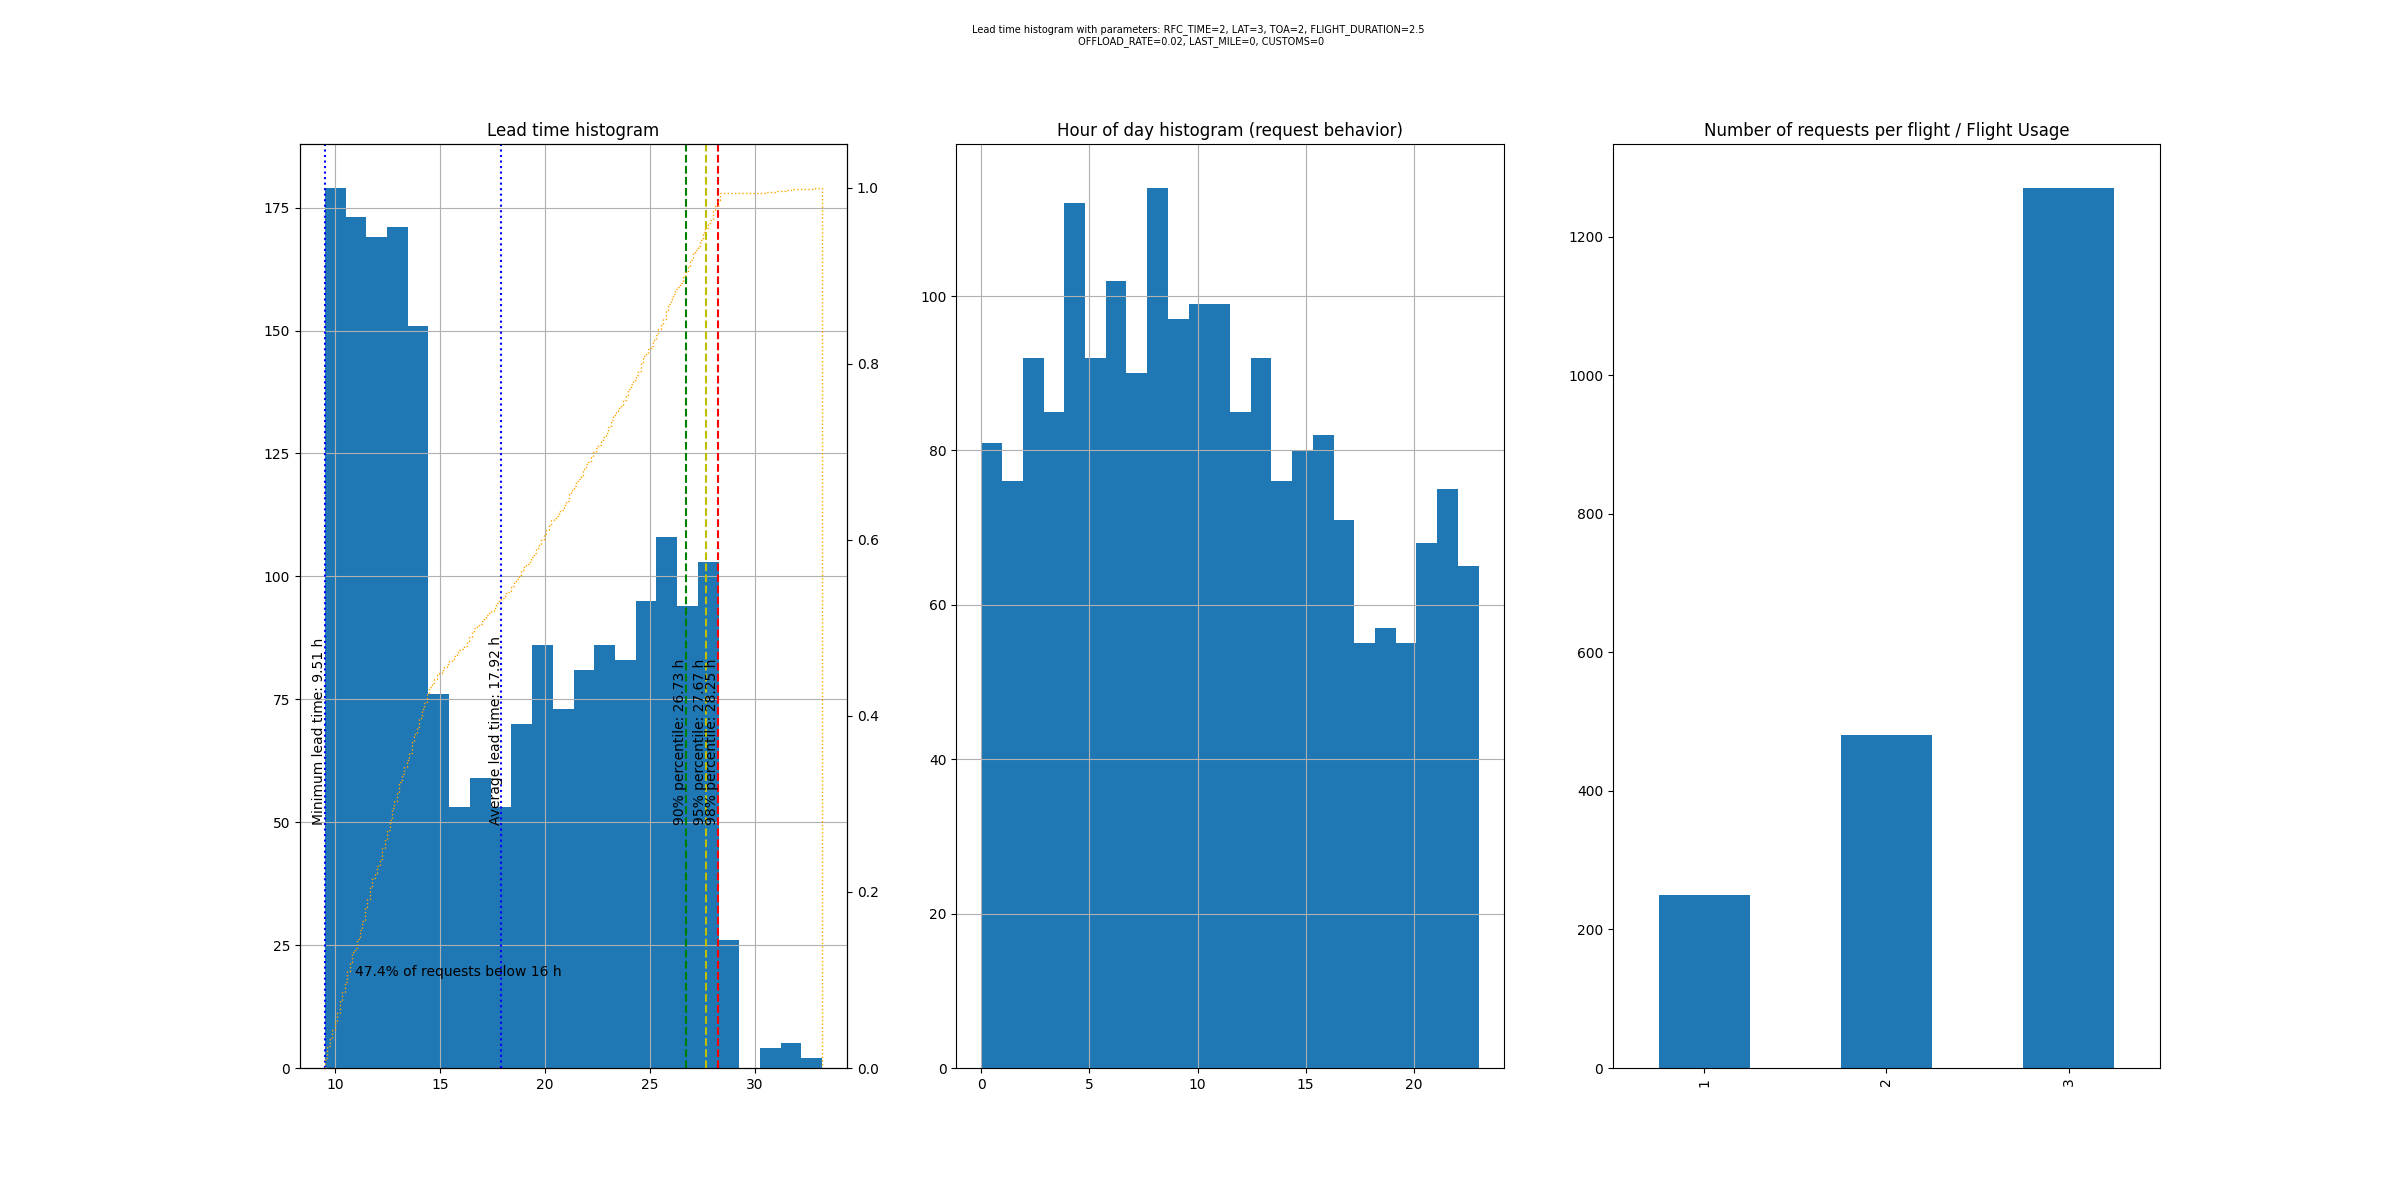
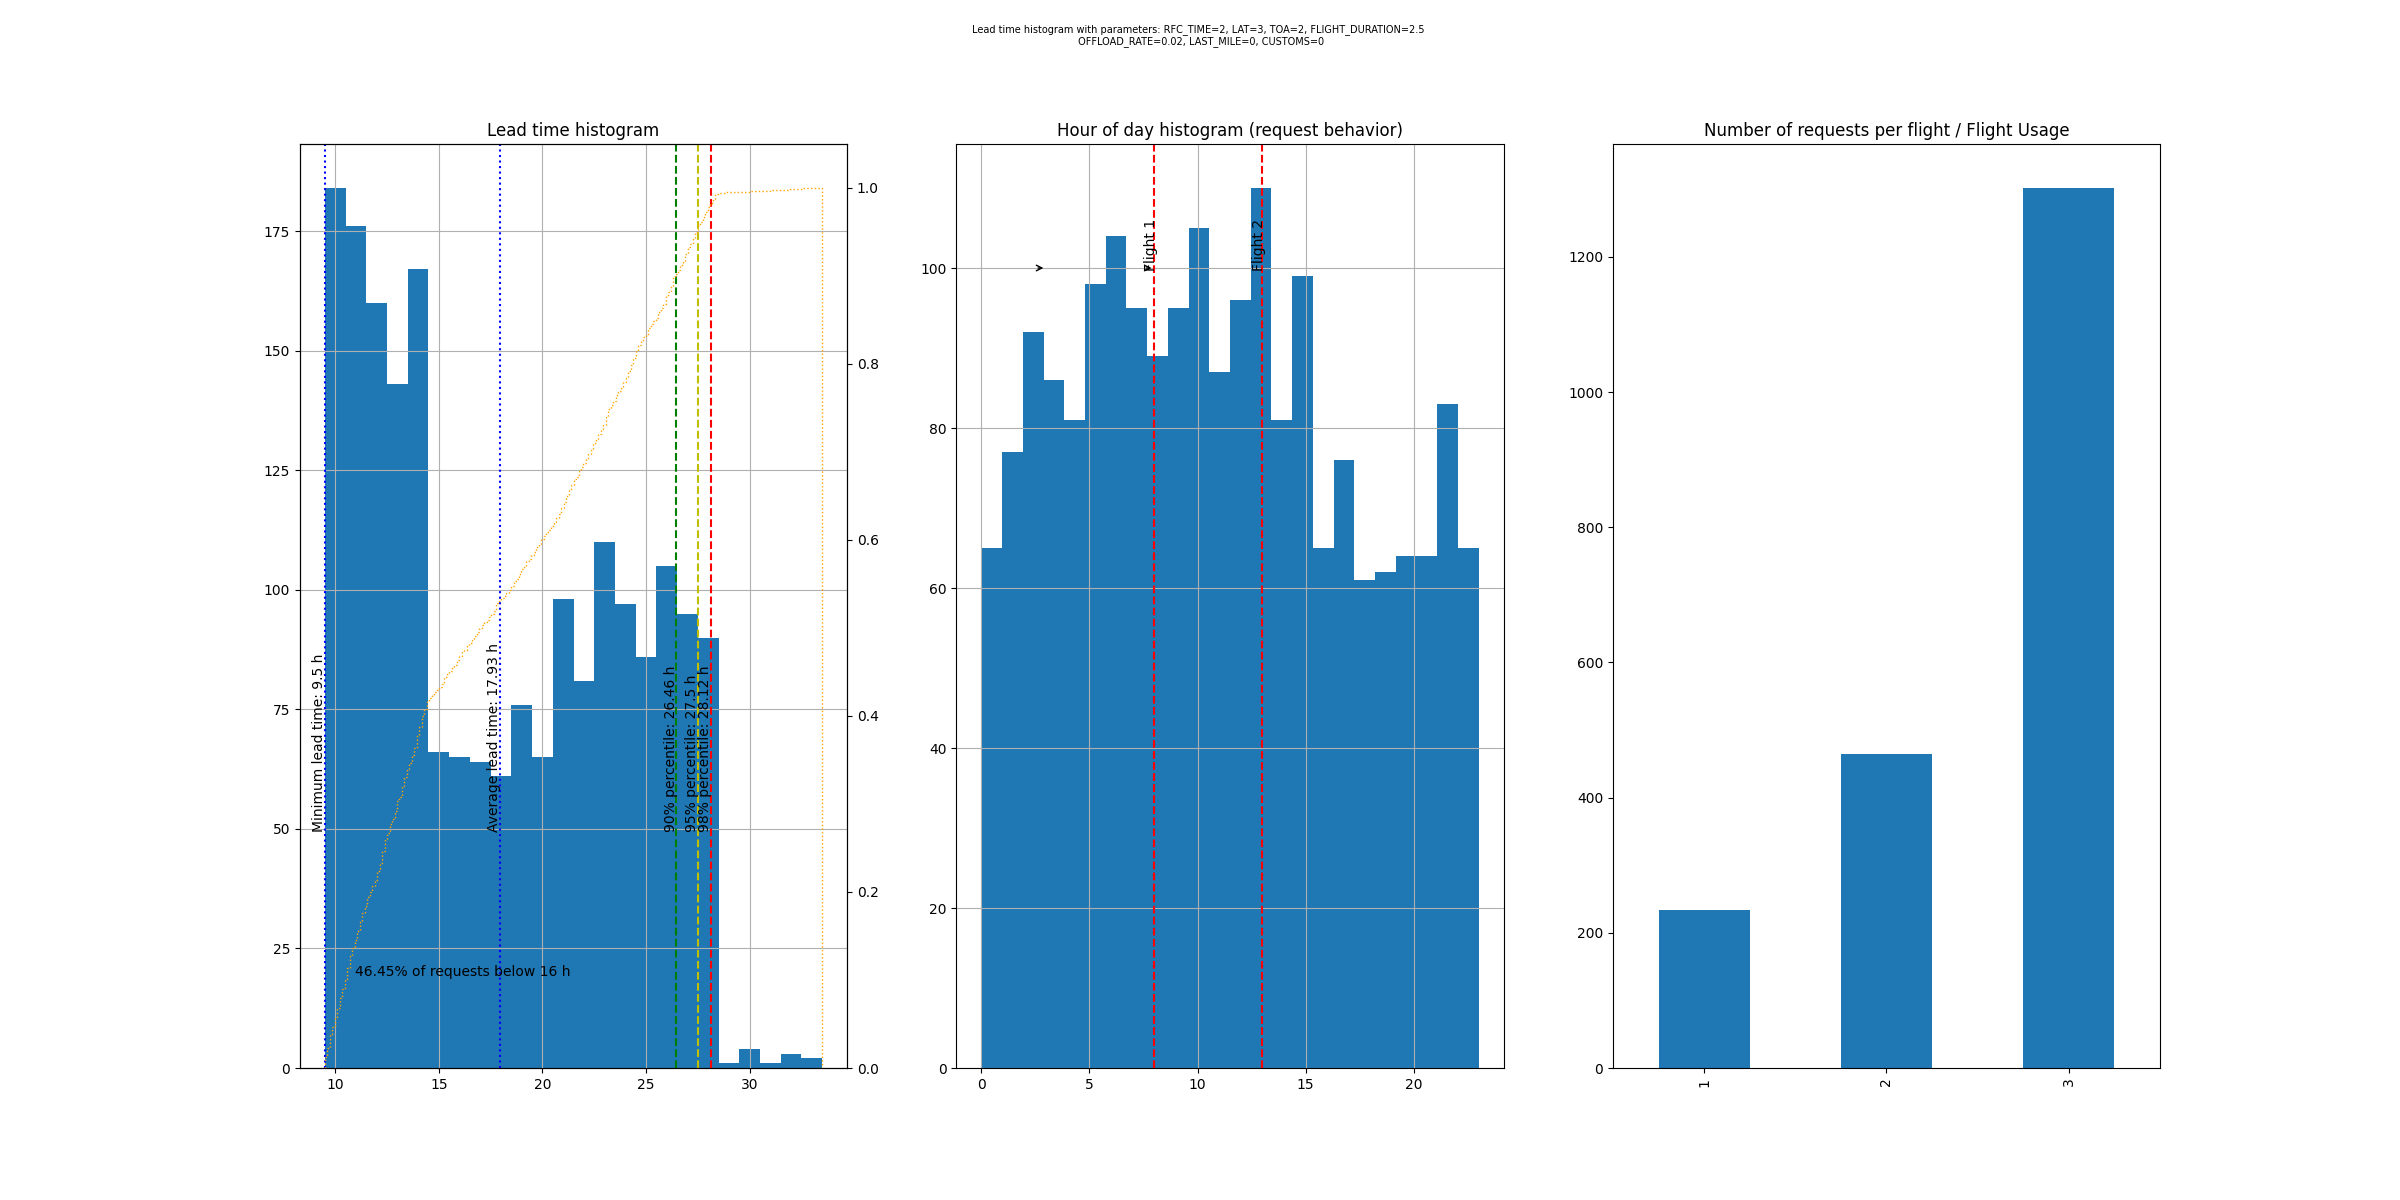
added arrows for flight LAT

diff --git a/src/app.py b/src/app.py
@@ -137,12 +137,19 @@ def plot_histograms(df):
     ax1.set_title('Lead time histogram')
     # Add title to hour of day histogram
     ax2.set_title('Hour of day histogram (request behavior)')
-
+    for flight in FLIGHT_SCHEDULE:
+        ax2.axvline(x=FLIGHT_SCHEDULE[flight], color='r', linestyle='--')
+        ax2.text(FLIGHT_SCHEDULE[flight]-0.5, 100, f'Flight {flight}', rotation=90)
+        # Add horizontal arrow with length LAT+RFC_TIME hours before flight pointing to the left
+        ax2.annotate('', xy=(FLIGHT_SCHEDULE[flight]-(LAT+RFC_TIME), 100), xytext=(FLIGHT_SCHEDULE[flight]-(LAT+RFC_TIME)-0.5, 100), arrowprops=dict(arrowstyle='->'))
     # Plot bar chart of number of requests per flight in original order of flights
     df['flight_no'].value_counts().sort_index().plot.bar(ax=ax3)
+
+
     # Add title to bar chart
     ax3.set_title('Number of requests per flight / Flight Usage')
-
+    # Add red vertical lines for each flight
+    
     # Save figure to file
     fig.savefig("output/histograms.png")
 
